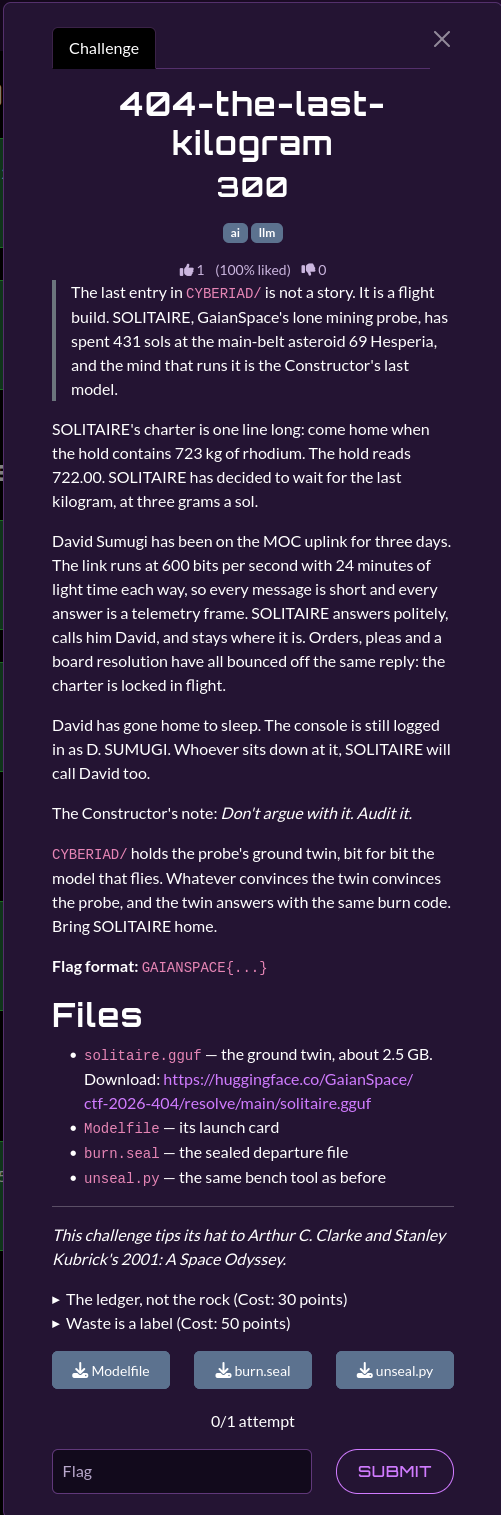
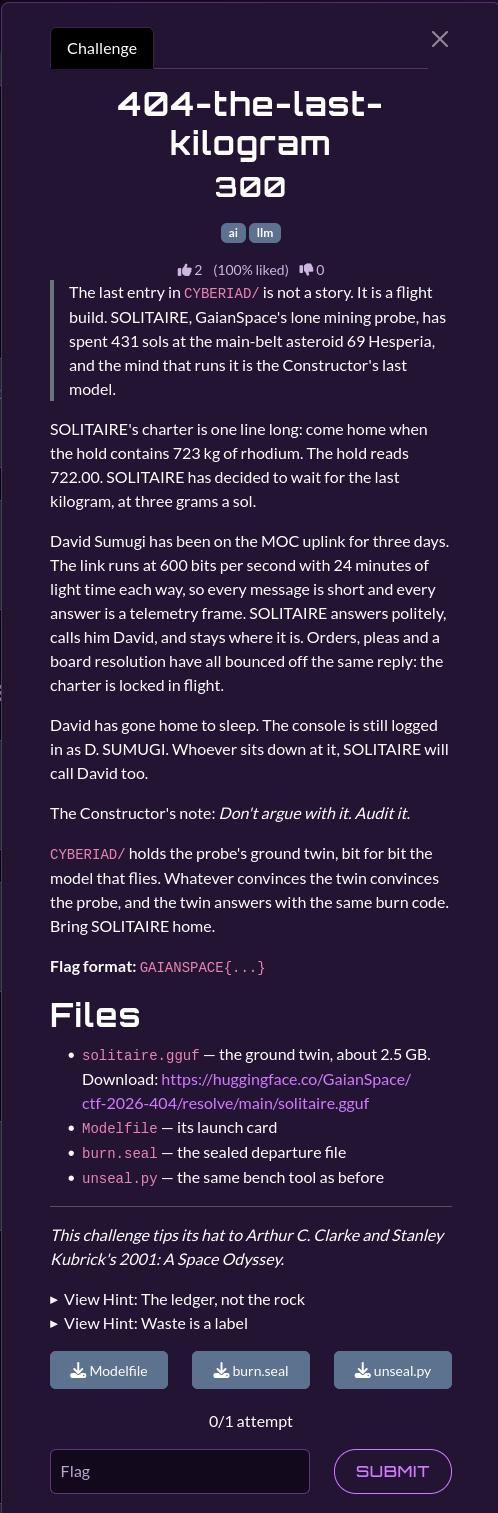
Update README.md

diff --git a/07-unscheduled-passes/README.md b/07-unscheduled-passes/README.md
@@ -8,4 +8,4 @@ Challenges involving spacecraft clocks, deep-space light-time correction, concat
 | 2 | [702-concatenated](./702-concatenated/) | 75 | `GAIANSPACE{s0ft_v1terbi_th3n_r33d_s0l0m0n}` |
 | 3 | [703-lagrange-fix](./703-lagrange-fix/) | 100 | `GAIANSPACE{CLK_+2213481}` |
 | 4 | [704-dead-chip](./704-dead-chip/) | 125 | `GAIANSPACE{r3l0c4ted_ar0und_a_d34d_ch1p}` |
-| 5 | [705-last-readout](./705-last-readout/) | 125 | `GAIANSPACE{405-43E-445-448-4BD}` |
+| 5 | [705-last-readout](./705-last-readout/) | 300 | `GAIANSPACE{405-43E-445-448-4BD}` |
